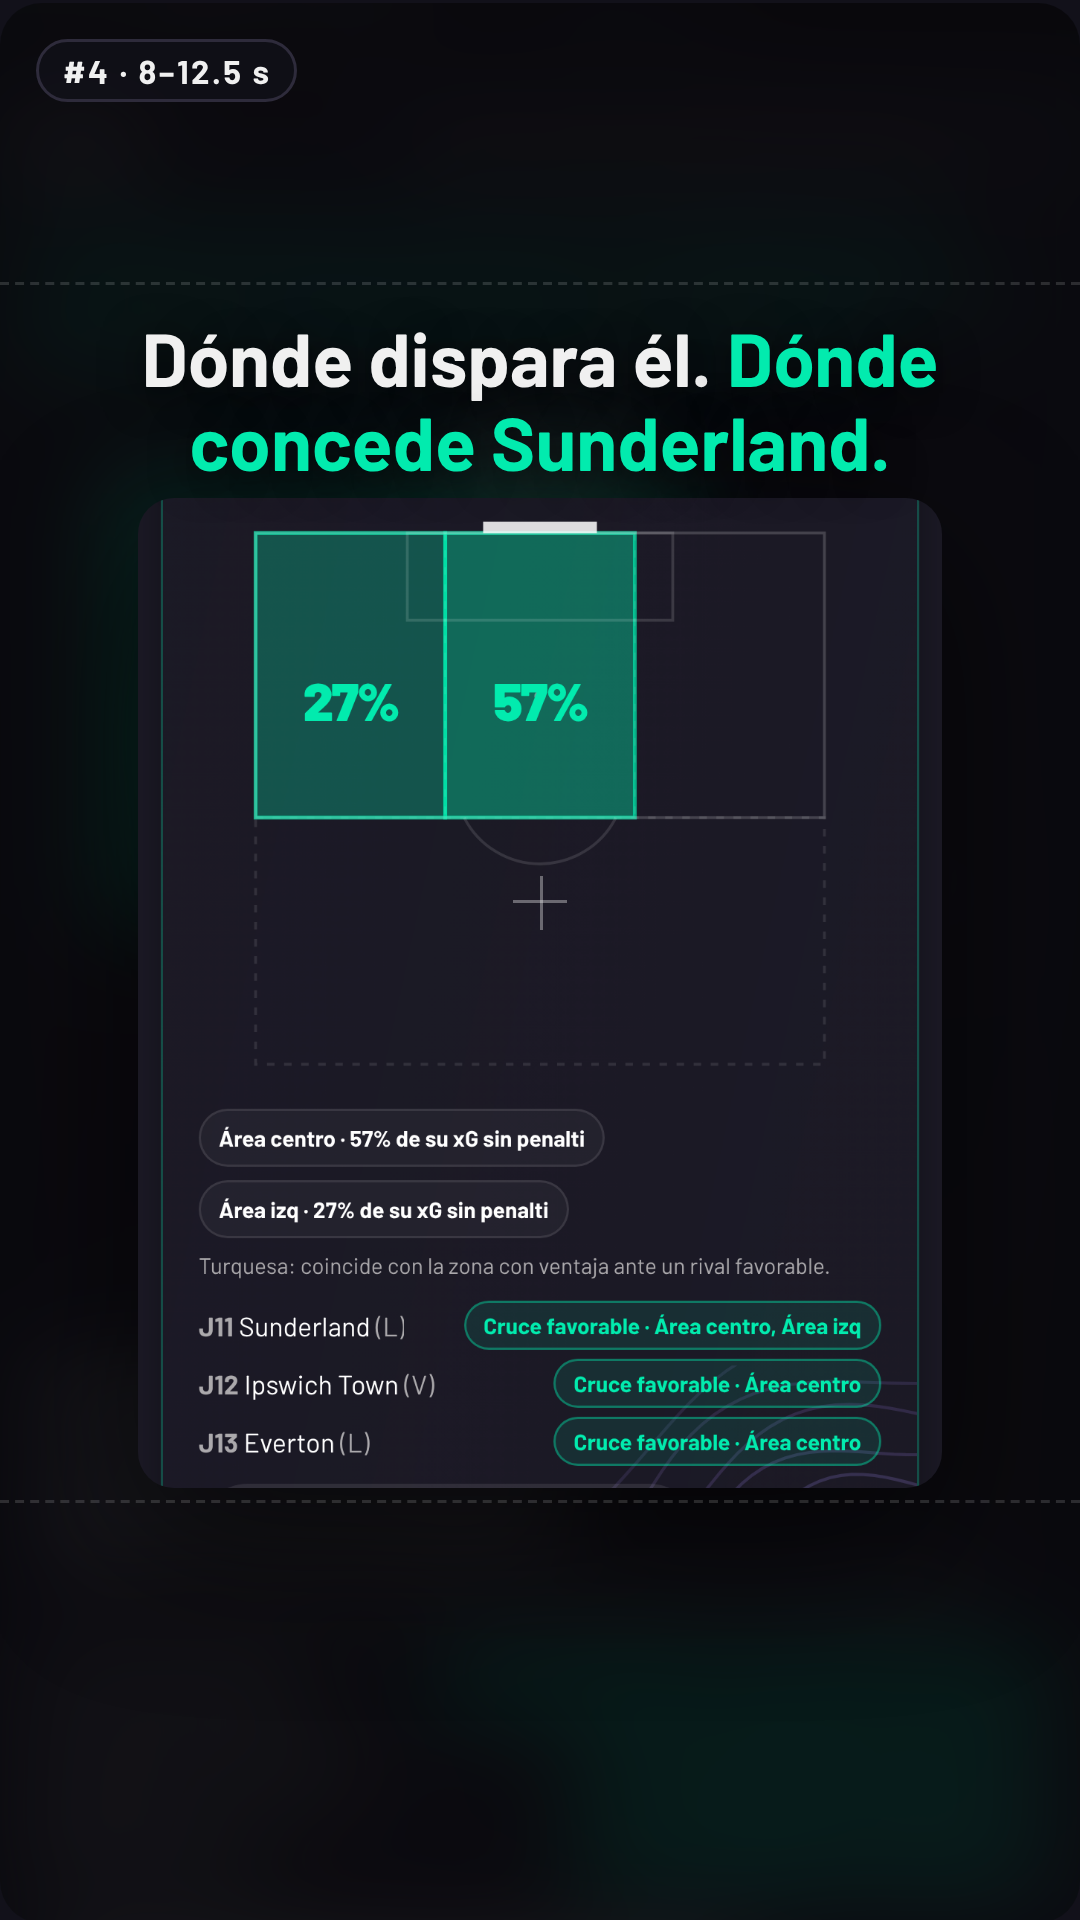
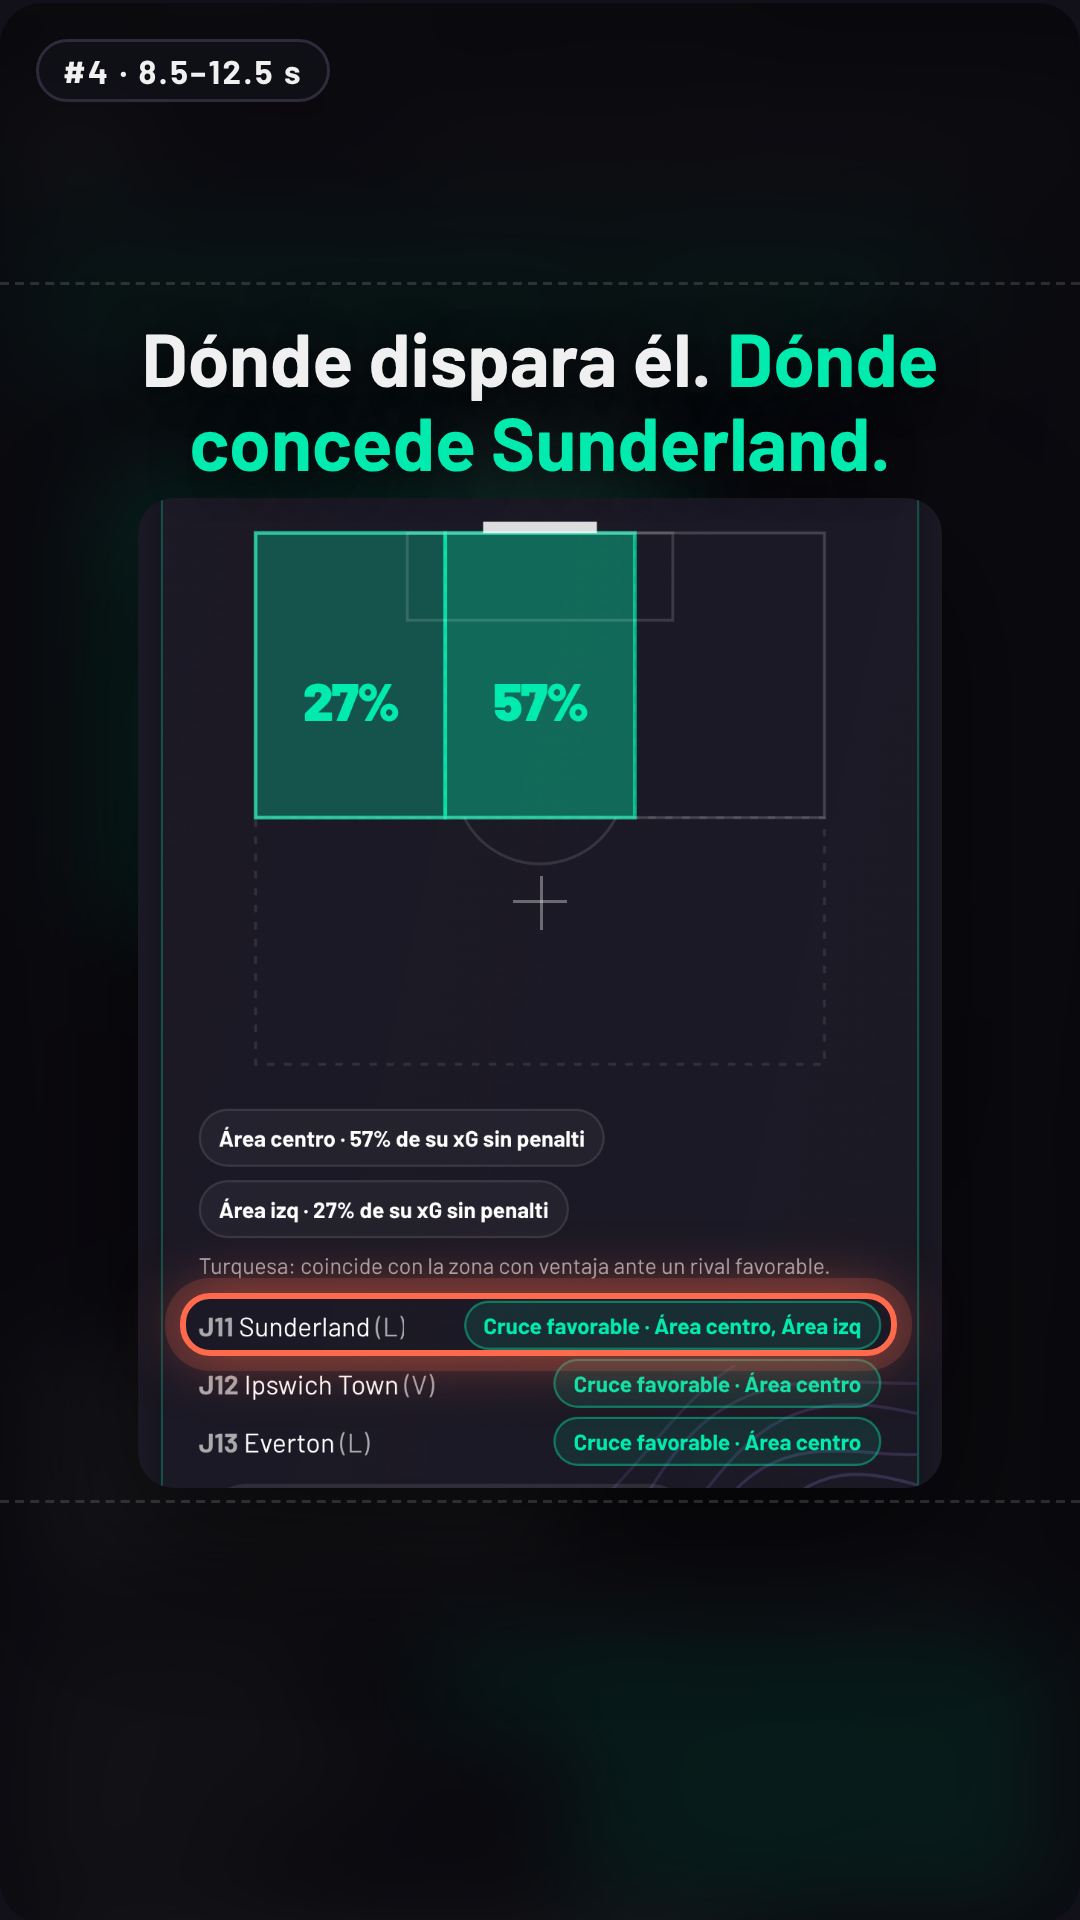
docs(marketing): clip 01 storyboard, shots 3-4 as one real scroll
Split shot 3 into question (short 'thinking'), answer verdict and the
real scroll to Zonas, replacing the invented morph. Seven frames.

Claude-Session: https://claude.ai/code/session_01ATfjps1UwPdb65HARRMbrE

Changed region(s): [[0.1528, 0.6562, 0.8556, 0.7188], [0.1528, 0.0312, 0.3056, 0.0625]]

diff --git a/docs/marketing/clip-01/storyboard/index.html b/docs/marketing/clip-01/storyboard/index.html
@@ -21,7 +21,7 @@
   header p { margin: 4px 0; color: var(--gray); font-size: 16px; line-height: 1.45; max-width: 1500px; }
   header p b { color: var(--text); font-weight: 600; }
   .status { display: inline-block; margin: 10px 0 0; padding: 4px 12px; border-radius: 999px; border: 1px solid var(--gold); color: var(--gold); font-weight: 700; font-size: 14px; letter-spacing: .6px; text-transform: uppercase; }
-  .row { display: grid; grid-template-columns: repeat(5, minmax(0, 1fr)); gap: 22px; margin-top: 28px; align-items: start; }
+  .row { display: grid; grid-template-columns: repeat(4, minmax(0, 1fr)); gap: 22px; margin-top: 28px; align-items: start; }
   .col { min-width: 0; }
 
   /* 9:16 frame, 360x640 CSS px = 1080x1920 at 3x. Anchor (180,300) = (540,900). */
@@ -61,11 +61,12 @@
 <div class="page">
   <header>
     <h1>Clip 01 · <span>Toca. Pregunta. Entiende.</span></h1>
-    <p>15 s · 1080×1920 · 30 fps. Ancla en el centro exacto (540, 900): todo nace, cambia y muere ahí. Transiciones por <b>transformación del objeto</b> (morph), nunca cross-dissolve. Línea discontinua = zona segura (y 280–1500). Cruz = centro.</p>
+    <p>15 s · 1080×1920 · 30 fps. Ancla en el centro exacto (540, 900): todo nace, cambia y muere ahí. Transiciones por <b>transformación del objeto</b> o por el <b>scroll real</b> de la app, nunca cross-dissolve. Del 3a al 4 es una sola pantalla: pregunta → respuesta → scroll hasta Zonas. Línea discontinua = zona segura (y 280–1500). Cruz = centro.</p>
     <p><b>Todas las imágenes son capturas de la app real</b> (<code>packages/fpl-ui</code> en local contra el backend de producción) en móvil 390×844 a 3x. Capturado el <b>15 nov 2026</b>, con la J10 cerrada y antes del deadline de la J11 (21 nov, 11:00 UTC). Equipo FPL <b>330340</b>. La respuesta del asistente es la que devolvió producción a la pregunta del Squad, sin tocar ninguna cifra.</p>
     <span class="status">Pendiente de aprobación · Leo</span>
   </header>
 
+  <svg width="0" height="0" style="position:absolute"><filter id="mblur"><feGaussianBlur stdDeviation="0 2.2"/></filter></svg>
   <div class="row" id="row"></div>
 
   <footer>
@@ -93,18 +94,33 @@ const SHOTS = [
     move: 'La ficha se despliega hacia abajo en la mini ficha; pulso sobre "Asistente →".',
     trans: 'El botón "Asistente →" se estira y se convierte en la burbuja del chat (morph).',
     src: 'captures/02-jackson-detail.png' },
-  { n: 3, title: 'Pregunta', time: '5–8 s · frames 150–240', img: '03-question-sent.png',
+  { n: '3a', title: 'Pregunta', time: '5–6.3 s · frames 150–190', img: '03-question-sent.png',
     rect: [40, 470, 1130, 900], box: [340, 330],
     caption: 'Pregúntale a tu asistente.',
     image: 'La burbuja real de la pregunta: "Cuéntame sobre N.Jackson — ¿lo alineo esta semana?" y debajo "Pensando…".',
-    move: 'La pregunta se escribe palabra a palabra dentro de la burbuja.',
-    trans: '"Pensando…" se pliega en un rectángulo que se dibuja como el área del mini campo de Zonas.',
+    move: 'La pregunta entra rápida; "Pensando…" se ve solo ~0.4 s (frames 177–190). En la app tarda más, pero el clip no espera: basta con mostrar que piensa.',
+    trans: '"Pensando…" da paso a la respuesta en el mismo sitio, igual que en la app.',
     src: 'captures/03-question-sent.png' },
-  { n: 4, title: 'Entiende (hero)', time: '8–12.5 s · frames 240–375', img: '07-zonas.png',
+  { n: '3b', title: 'Respuesta', time: '6.3–7.5 s · frames 190–225', img: '04-answer-verdict.png',
+    rect: [40, 470, 1130, 1960], box: [340, 330],
+    caption: 'Pregúntale a tu asistente.',
+    image: 'La respuesta real arranca bajo la pregunta: veredicto "Cruce zonal favorable: SUN, IPS, EVE" · "Titular en 9 de 10" y "Sí: alinea a N. Jackson esta semana".',
+    move: 'La tarjeta aparece; pausa corta para leer el veredicto.',
+    trans: 'Arranca el scroll real de la tarjeta (misma pantalla, sin corte).',
+    src: 'captures/04-answer-verdict.png' },
+  { n: '3c', title: 'Scroll', time: '7.5–8.5 s · frames 225–255', img: '05-answer-player.png', blur: true,
+    rect: [40, 420, 1130, 1500], box: [340, 330],
+    caption: '',
+    image: 'Scroll real por la ficha (54 pts · £7.1m · 31.4% · forma 8.8, xG/xA) y el calendario (SUN · IPS · EVE · CRY).',
+    move: 'Aceleración con desenfoque de movimiento vertical: se lee como "bajamos por la misma respuesta".',
+    trans: 'Frena en seco en Zonas (misma pantalla).',
+    src: 'video/flow-scroll-replay.mp4 · captures/05-answer-player.png · 06-answer-fixtures.png' },
+  { n: 4, title: 'Entiende (hero)', time: '8.5–12.5 s · frames 255–375', img: '07-zonas.png',
     rect: [45, 790, 1125, 2120], box: [340, 330],
+    hls: [[100, 1860, 1065, 1945]],
     caption: 'Dónde dispara él. <em>Dónde concede Sunderland.</em>',
     image: 'Zonas real (J11–J13): área centro 57% y área izq 27% de su xG sin penalti, ambas en turquesa. "J11 Sunderland (L) · Cruce favorable · Área centro, Área izq".',
-    move: 'Las celdas se rellenan; sube 0→57% y después 0→27%; se enciende el chip de Sunderland (acento musical).',
+    move: 'Push-in sobre 57% / 27%; brillo en la fila de Sunderland (acento musical). Las cifras son las de la captura, sin reanimarlas.',
     trans: 'Las líneas del campo se recogen al centro y forman el contorno del logo.',
     src: 'captures/07-zonas.png (pasada 2) · 07b-zonas-live.png (pasada 1, mismas cifras)' },
   { n: 5, title: 'CTA', time: '12.5–15 s · frames 375–450', img: '07-zonas.png', logo: true,
@@ -126,7 +142,7 @@ for (const s of SHOTS) {
     const fw = w * k, fh = h * k, fx = 180 - fw / 2, fy = 330 - fh / 2;
     const fg = document.createElement('div'); fg.className = 'fg';
     Object.assign(fg.style, { left: fx + 'px', top: fy + 'px', width: fw + 'px', height: fh + 'px' });
-    const im = new Image(); im.src = CAP + s.img; im.alt = s.title;
+    const im = new Image(); im.src = CAP + s.img; im.alt = s.title; if (s.blur) im.style.filter = 'url(#mblur)';
     Object.assign(im.style, { width: 1170 * k + 'px', left: -x0 * k + 'px', top: -y0 * k + 'px' });
     fg.appendChild(im); f.appendChild(fg);
     for (const [cx, cy, r] of s.rings || []) {

diff --git a/docs/marketing/06-clip-01-plan.md b/docs/marketing/06-clip-01-plan.md
@@ -93,3 +93,9 @@ Fuente: `clip-01/data.json` y capturas en `clip-01/ref/`.
 - La respuesta real coincide con `data.json`: 57% área centro, 27% área izq y "Cruce favorable · Área centro, Área izq" contra Sunderland (L) en la J11.
 - Mini ficha del plano 2: muestra **11 Pts GW** (puntos de la J10), no 54. Los 54 pts totales salen en la ficha de la respuesta.
 - No se produce el video hasta que Leo apruebe.
+
+### Cambio de Leo (15 nov): del 3 al 4 es un scroll, no un morph
+- Del 3 al 4 se muestra **la misma pantalla de la app**: pregunta → respuesta → scroll real hasta Zonas. Desaparece el morph de "Pensando…" al área del campo.
+- "Pensando…" aparece solo ~0.4 s. La app tarda más, pero el clip no espera.
+- Tiempos nuevos: 3a Pregunta 5–6.3 s · 3b Respuesta (veredicto) 6.3–7.5 s · 3c Scroll con desenfoque de movimiento 7.5–8.5 s · 4 Zonas 8.5–12.5 s. El 1, el 2 y el 5 no cambian.
+- En el plano 4, las cifras se muestran tal como salen en la captura, sin animarlas de 0 a 57%. El énfasis lo hacen el push-in y el brillo en la fila de Sunderland.
